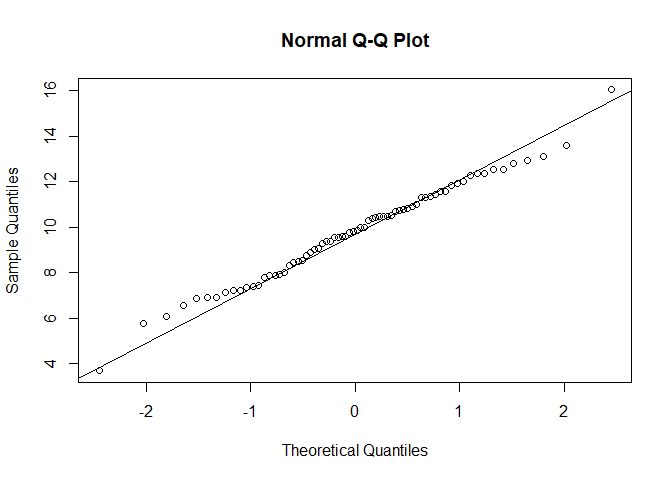
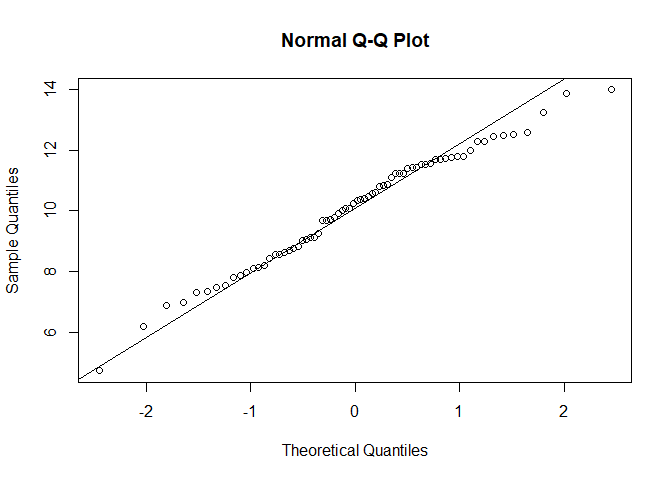
W6 Monday Commit

diff --git a/Chapter Reports/CH4-part3.md b/Chapter Reports/CH4-part3.md
@@ -27,16 +27,16 @@ random <- rnorm(70, 10, 2);
 print(random)
 ```
 
-    ##  [1]  6.075211 11.303303 10.424199 12.360806 11.935623  6.580755  8.552948
-    ##  [8]  6.860803  9.569438  7.783481  9.372788 11.436076  9.294276  8.884155
-    ## [15] 10.001504  7.158850 10.309570 12.545809  9.806483  9.050677 10.918926
-    ## [22]  9.571183 11.349937  7.243030 10.489110 10.749886 16.034010 10.505249
-    ## [29] 12.794762  9.006275 10.808922 12.545248 10.777935  6.930930 10.700242
-    ## [36]  7.871806  9.608625 10.484932  5.780759 11.578801 13.126352  7.889660
-    ## [43]  9.854357  9.785254  9.370533 12.928441  8.754476  3.698259  7.434817
-    ## [50] 10.410666  7.378824 11.829321 10.011721  8.480541  8.449678 12.256906
-    ## [57] 10.479782  6.935147  8.013481  9.578609 11.572416 11.023688 11.313909
-    ## [64]  7.944892  7.215126  7.420070 12.014897  8.309880 13.610770 12.348664
+    ##  [1] 11.221298  8.586925 11.394484 10.010592 11.235113 12.466812  4.752301
+    ##  [8]  9.144222 13.867494  7.970839 10.396648 10.333960 11.437906  9.138704
+    ## [15] 10.368608 10.854784 12.278329  7.008869 11.229298 10.488534  7.875486
+    ## [22] 11.708981  8.434693 11.748309 10.832150  7.321220 10.567367  8.144428
+    ## [29] 10.242126  8.753871  7.473489 11.689720  9.062036  6.206962 11.778861
+    ## [36]  9.701272 10.071360 10.081105  9.784233 10.813052  7.821579 11.427274
+    ## [43]  8.102347 11.702759 10.607479 13.970805  8.219984  9.727955  8.702698
+    ## [50]  8.647258 11.971685  7.554601 11.086237 11.542613  9.034230 12.293351
+    ## [57] 11.786422  9.697702 12.507214 12.449379  8.831663 11.524664  8.556539
+    ## [64] 12.579324 11.521078  9.250470 13.220820  9.921174  6.911173  7.345428
 
 Originally I tried using system.time rather than NULL to set my seed, to
 guarentee the randomness of it, but I discovered this in the
@@ -49,18 +49,19 @@ help(set.seed) documentation:
 This means that I don’t have to manually use system.time to make
 reliably random seeds, and can use NULL with good conscience. I talked
 with my partner a bit about the consequences of having non-random seeds,
-or duplicate-able seeds: in Monster Hunter 3 Ultimate, it was always
-best to set your birthday to a specific day (like January 15th or
-something) *because the seed for that day* had end-game drop tables that
-were objectively better than any other drop tables in the game. This led
-to all serious players either having to live with subpar tables, or
-restarting their entire game to set a fake birthday. Players with this
-birthday had an unfair unknown advantage over all over players, merely
-because of the seed they received. Bad seeds cause strife in video
-games, but the strife they cause in the real world is so much worse.
+or duplicate-able seeds:
+
+``` mh3u
+In Monster Hunter 3 Ultimate, it was always best to set your birthday to a specific day (like January 15th or something) *because the seed for that day* had end-game drop tables that were objectively better than any other drop tables in the game.  This led to all serious players either having to live with subpar tables, or restarting their entire game to set a fake birthday.  Players with this birthday had an unfair unknown advantage over all over players, merely because of the seed they received.
+```
+
+Bad seeds cause strife in video games, but the strife they cause in the
+real world is so much worse.
 
 Whenever I knit my document, I get a new random data set (which is
 wonderful) which I believe further proves that these seeds are good.
+This also means that with every commit to GitHub for this report, my
+values are changed.
 
 Then I made a histogram of my random numbers, to verify randomness:
 
@@ -68,10 +69,11 @@ Then I made a histogram of my random numbers, to verify randomness:
 hist(random, breaks=10);
 ```
 
-![](CH4-part3_files/figure-gfm/his-1.png)<!-- --> Based on the random
-number set that was generated each knit, this histogram ranges from a
-disastogram to being almost perfect. So I ran some more tests to prove
-randomness.  
+![](CH4-part3_files/figure-gfm/his-1.png)<!-- -->
+
+Based on the random number set that was generated each knit, this
+histogram ranges from a disastogram to being almost perfect. So I ran
+some more tests to prove randomness.  
 First, a **Q-Q plot**:
 
 ``` r
@@ -79,8 +81,10 @@ qqnorm(random)
 qqline(random)
 ```
 
-![](CH4-part3_files/figure-gfm/QQ-1.png)<!-- --> Sometimes, this looks
-textbook perfect. Othertimes it’s a bit more wobbly on the very edges.
+![](CH4-part3_files/figure-gfm/QQ-1.png)<!-- -->
+
+Sometimes, this looks textbook perfect. Othertimes it’s a bit more
+wobbly on the very edges.
 
 Then I ran a Shapiro-Wilk normality test.
 
@@ -92,15 +96,17 @@ shapiro.test(random)
     ##  Shapiro-Wilk normality test
     ## 
     ## data:  random
-    ## W = 0.99081, p-value = 0.8921
+    ## W = 0.98362, p-value = 0.493
 
 Between knits I’ve gotten the pleasure of seeing p-values that are low
-like 0.1408, or p-values that are quite high like 0.7505. Assuming the
-‘default’ alpha of 0.05, all of these p-values mean I can reject the
-null hypothesis. (In this case, the null hypothesis is that variable
-‘random’ equals a non-random distribution). I am not certain what the
-W represents, but it seems to gravitate between 0.97\#\#\# and
-0.98\#\#\#.
+like 0.1408, or p-values that are quite high like 0.8921. There’s also
+been . . . hall of shame results with p values around 0.02.  
+Assuming the ‘default’ alpha of 0.05, *most* of these p-values mean I
+can reject the null hypothesis. (In this case, the null hypothesis is
+that variable ‘random’ equals a non-random distribution). I am not
+certain what the W represents, but it seems to gravitate between
+0.97\#\#\# and 0.98\#\#\#. Hall of shame results sometimes have
+0.96\#\#\# values.
 
 Now that I have an ever changing, lovely random data set to work with,
 let’s go back to th beginning of the chapter and run some more basic
@@ -116,7 +122,7 @@ American economic data.
 median(random)
 ```
 
-    ## [1] 9.83042
+    ## [1] 10.28804
 
 Means are the mathemetical average–sum all the data, then divide it by
 N. The mean is good for centrality when data’s distribution is normal or
@@ -126,7 +132,7 @@ flat.
 mean(random)
 ```
 
-    ## [1] 9.778549
+    ## [1] 10.07132
 
 Range is the difference between the largest and smallest data point.
 range() gives us the largest and the smallest without subtracting them.
@@ -137,21 +143,21 @@ can also be useful for finding ranges.
 range(random)
 ```
 
-    ## [1]  3.698259 16.034010
+    ## [1]  4.752301 13.970805
 
 ``` r
 res <- range(random); diff(res)
 ```
 
-    ## [1] 12.33575
+    ## [1] 9.218504
 
 ``` r
 min(random); max(random)
 ```
 
-    ## [1] 3.698259
+    ## [1] 4.752301
 
-    ## [1] 16.03401
+    ## [1] 13.97081
 
 Interquartile Ranges are useful for looking at the spread of data. IQR
 gives us the difference between the 75% quartile and 25% quartile–most
@@ -162,17 +168,17 @@ We can also request the main 4 quartiles, or specify any quartile.
 IQR(random)
 ```
 
-    ## [1] 3.223677
+    ## [1] 2.862649
 
 ``` r
 quantile(random); quantile(random, 0.30)
 ```
 
     ##        0%       25%       50%       75%      100% 
-    ##  3.698259  8.087581  9.830420 11.311258 16.034010
+    ##  4.752301  8.661118 10.288043 11.523767 13.970805
 
-    ##      30% 
-    ## 8.531226
+    ##     30% 
+    ## 8.97346
 
 SAMPLE variance can be found with the var() function. POPULARION
 variance requires more care.
@@ -181,7 +187,7 @@ variance requires more care.
 var(random)
 ```
 
-    ## [1] 4.719872
+    ## [1] 3.596536
 
 SAMPLE standard deviation can be found with the sd() function.
 POPULATION sd requires more care.
@@ -190,7 +196,7 @@ POPULATION sd requires more care.
 sd(random)
 ```
 
-    ## [1] 2.172527
+    ## [1] 1.896454
 
 To continue reading the CH4 reports, select a new section:  
 [Part 4 of the Chapter 4 Reports (DOES NOT EXIST

diff --git a/Timecards/Week-6-Timecard.md b/Timecards/Week-6-Timecard.md
@@ -3,7 +3,7 @@ Week 6 Timecard
 Nurrospody
 5/4/2020
 
-**Monday** - 3 hours 17 minutes - set up timecard and README hyperlink,
+**Monday** - 3 hours 23 minutes - set up timecard and README hyperlink,
 read quite a few pages into the chapter, generated a random distribution
 of 70n to work with and did a bunch of basic stats calculations\! Talked
 about seeds, tried to make sure everything had a definition appended to
